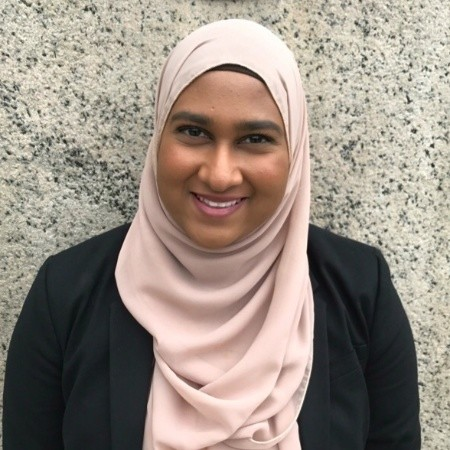
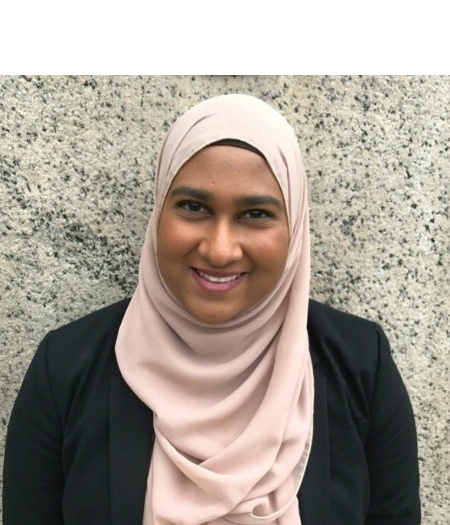
add more to our team

diff --git a/src/app/our-team/our-team.component.html b/src/app/our-team/our-team.component.html
@@ -62,6 +62,7 @@
                 <div class="text-muted">
                   <b>Education: </b>
                   <p> J.D., American University Washington College of Law, 2019</p>
+                  <p> B.S., Microbiology & Cell Sciences, University of Florida, 2015</p>
                   <b>Admissions: </b>
                   <p> Virginia</p>
                   <p> Washington, D.C.</p>
@@ -178,7 +179,7 @@
               <div class="card-block px-2">
                 <p class="card-text"></p>
                 <div class="image pull-left">
-                  <img height="200" width="200" src="assets/img/janki.jpg" class="img-fluid" alt="">
+                  <img height="200" width="200" src="assets/img/janki.jpg" class="img-fluid down" alt="">
                 </div>
                 <h5>Janki Kaswala</h5>
                 <div class="text-muted">
@@ -197,7 +198,7 @@
             <p>Janki joins Metropolitan Legal Solution as an associate attorney. Janki graduated from the University of
               Maryland, College Park with a Bachelor of Arts in History in 2015 and completed her Paralegal
               Certification from Georgetown University in 2016. Before attending law school, Janki worked as a paralegal
-              intern with Paul Hastings, LLP in Washington, D.C. and as a Legislative Adie with Maryland State Senator
+              intern with Paul Hastings, LLP in Washington, D.C. and as a Legislative Aide with Maryland State Senator
               Nathaniel J. McFadden. During her time at American University’s Washington College of Law, Janki was in
               the top 20% of her class, was President of the South Asian Law Student Association, and was an extern in
               the Maryland Attorney General’s Organized Crime Unit. Janki joins our firm from The Honorable Zuberi
